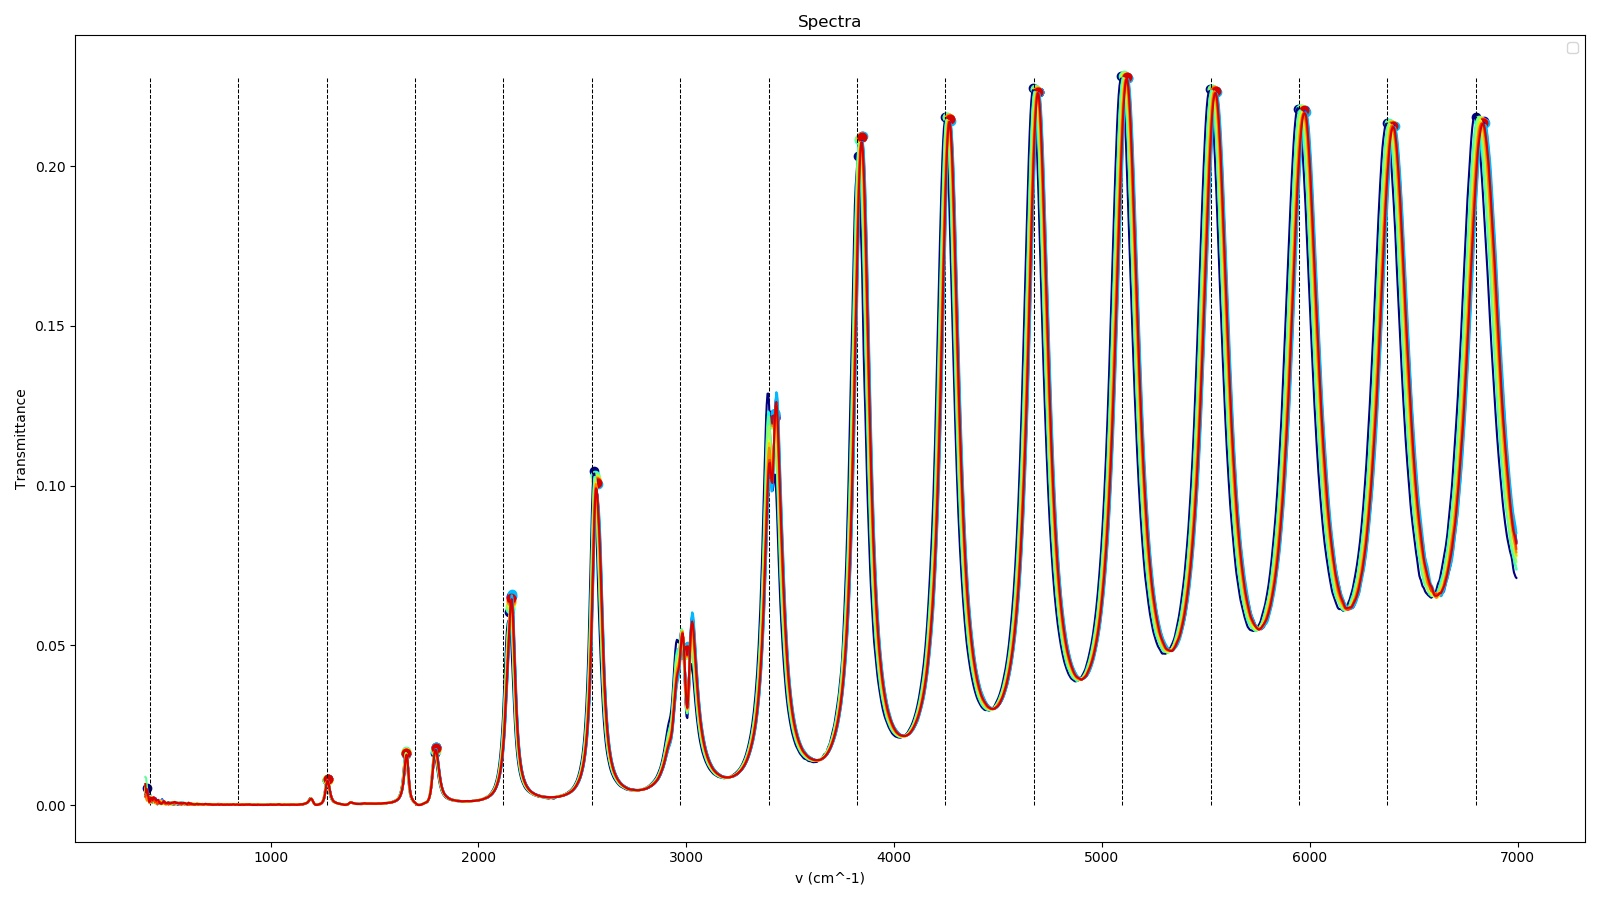
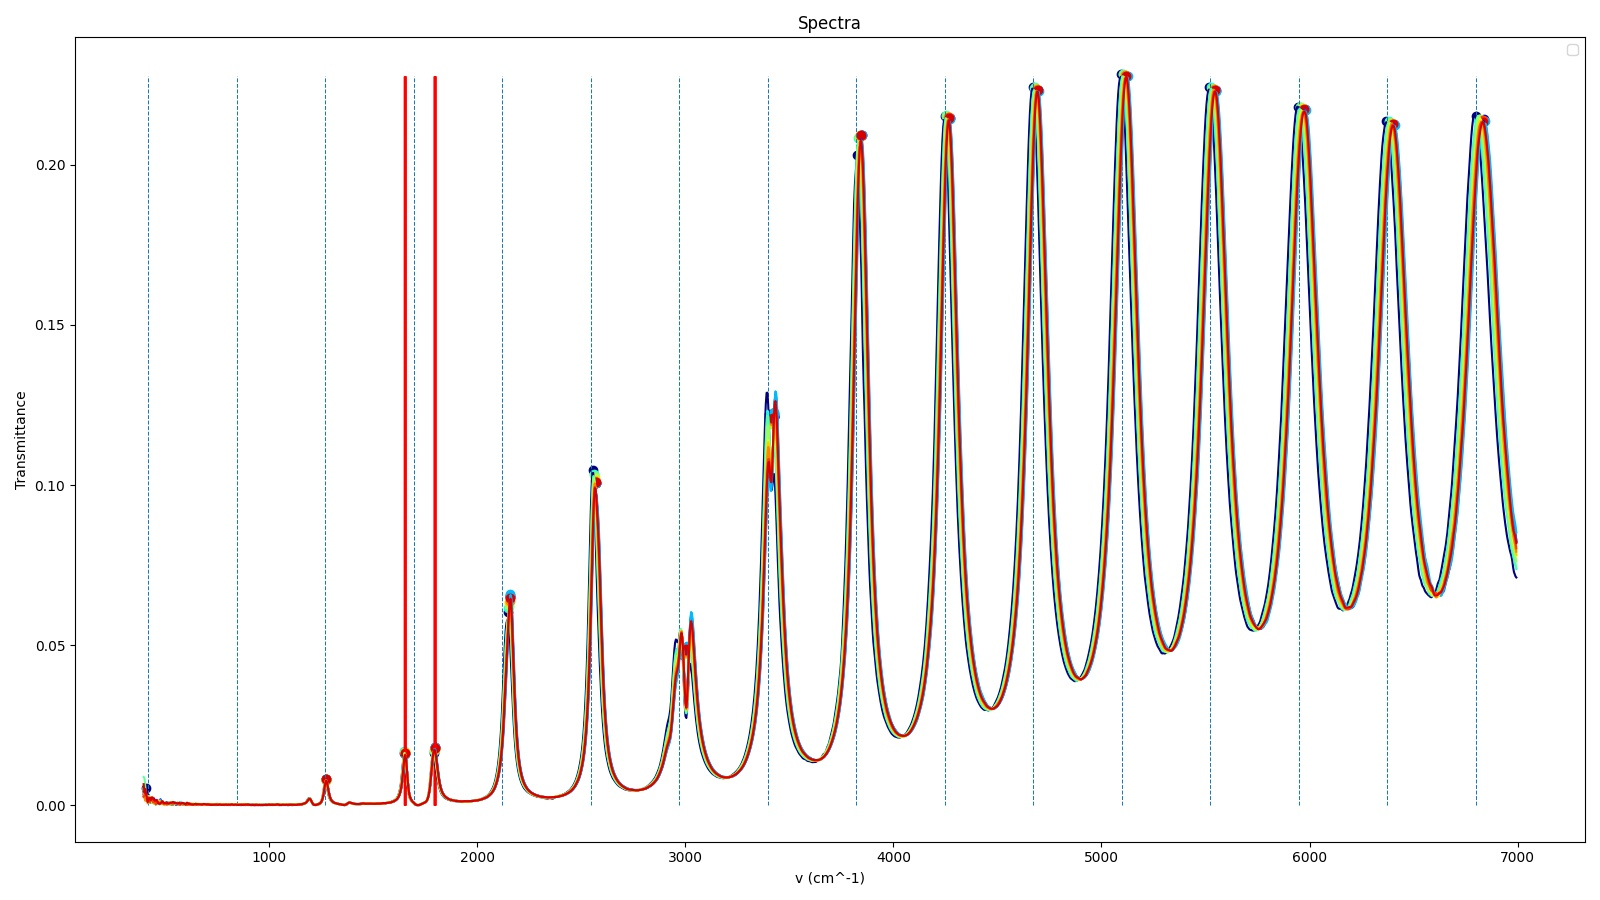
added back support for polariton calculations

diff --git a/analysis_kinetics.py b/analysis_kinetics.py
@@ -1,77 +1,13 @@
 import numpy as np
 import matplotlib.pyplot as plt
 import scipy.signal
+from pkg.exp_decay_fitter import fit_exp_decay
+
+
 
 def read_UV(file):
 	data = np.genfromtxt(file, skip_header=1, delimiter=',')[:,:-1]
 	return data
-
-
-def fit_exp_decay(x, y, maxiter=10_000, eps=1e-6, plot_errors=True, show_fit=True, title='Predicted and reference rate'):
-	#fitting to [A]_0 exp(-kt) + B
-	#initial values
-	k = 2/x.max()			#height of 0.1 + B at time x.max()/2
-	A0 = (y.max()-y.min()) 	
-	B = y.min() 			
-
-	f = lambda x, A0, k, B: A0 * np.exp(-k*x) + B
-	error = lambda x, A0, k, B: np.sum((y-f(x, A0, k, B))**2)
-
-	# plt.plot(x, y)
-	# cmap = plt.get_cmap('hot')
-	errors = []
-	for i in range(maxiter):
-		errors.append(error(x, A0, k, B))
-		# if errors[-1] < eps: break #check for completion of minimization
-		if i > 10 and all([(e - errors[-1]) < eps for e in errors[-8:]]): break
-
-		#calculate derivatives
-		expdec = np.exp(-k*x)
-		base = A0*expdec + B - y
-		dA0 = np.sum(2*expdec			* base)
-		dk  = np.sum(2*x*A0*expdec*-1	* base)
-		dB  = np.sum(2			 		* base)
-
-		#change parameters
-		A0 = A0 - dA0 * 0.00001
-		k = k - dk * 0.00001
-		B = B - dB * 0.00001
-
-	if i < maxiter:
-		print(f'Exponential decay fit converged in {len(errors)}/{maxiter} iterations.')
-	else:
-		print(f'Exponential decay fit not converged. Will take more than {maxiter} iterations, or is not possible. ')
-
-	if plot_errors: 
-		plt.figure()
-		plt.plot(range(len(errors)), errors)
-		plt.title('Error during fitting')
-		plt.xlabel('Iteration')
-		plt.ylabel('Error (a.u.)')
-
-	if show_fit: 
-		plt.figure()
-		plt.plot(x, f(x, A0, k, B), label='Predicted decay')
-		plt.plot(x, y, label='Reference data')
-		plt.title(f'{title}\nA0={A0:.3f}, k={k:.3f}, B={B:.3f}')
-		plt.xlabel('Time (s)')
-		plt.ylabel('Absorbance (a.u.)')
-		plt.hlines(B + A0/2, x.min(), np.log(2)/k, colors=['black'], linewidths=[.75])
-		plt.vlines(np.log(2)/k, y.min(), B + A0/2, colors=['black'], linewidths=[.75])
-		plt.scatter(np.log(2)/k, B + A0/2, c='black')
-		plt.text(np.log(2.2)/k, B + A0/1.85, r'$t_{1/2} = $' + f'{np.log(2)/k:.2f} s')
-		plt.legend()
-
-	print('Parameters:')
-	print(f'\tA0 = {A0} (a.u.)')
-	print(f'\tk  = {k} (1/s)')
-	print(f'\tB  = {B} (a.u.)')
-
-	print(f'Mean Lifetime (1/k) \tτ    = {1/k:.2f} s')
-	print(f'Half-life (τln(2))  \tt₁/₂ = {np.log(2)/k:.2f} s')
-
-	return A0, k, B
-
 
 
 

diff --git a/analysis_IR_2.py b/analysis_IR_2.py
@@ -229,14 +229,19 @@ def main(**settings):
 
 		#calculate Rabi splitting
 		for j, polariton_wn in enumerate(polariton_wns):
+			
+			adjpeak = get_adjacent_peaks(polariton_wn, peak_res['peakx'])
+			if adjpeak is None:
+				continue
+			l, h = adjpeak
+
 			print(f'\tPolariton {j} @ {polariton_wn} cm^-1', file=logfile)
-			l, h = get_adjacent_peaks(polariton_wn, spectrax[p])
 			if plot_polaritons:
 				plt.vlines((l,h), min_abs, max_abs, colors='red', linewidths=1)
 			splitting = (h-l)*planck*lightspeed
-			idx = np.where(np.logical_or(spectrax == l, spectrax == h))[0]
-			peak_props = scipy.signal.peak_widths(a, idx)
-			peak_widths = [pw*wavelenght_stepsize for pw in peak_props][0]
+			# idx = np.where(np.logical_or(spectrax == l, spectrax == h))[0]
+			# peak_props = scipy.signal.peak_widths(a, idx)
+			# peak_widths = [pw*wavelenght_stepsize for pw in peak_props][0]
 
 			print(f'\t\tP+ @ {int(h)} cm^-1, dv = {h-polariton_wn:.1f} cm^-1', file=logfile)
 			print(f'\t\tP- @ {int(l)} cm^-1, dv = {polariton_wn-l:.1f} cm^-1', file=logfile)
@@ -374,13 +379,13 @@ if __name__ == '__main__':
 		'cavity_tuning': {
 			'file': 'data/20211112_cavity_tuning_for_acetone/data.csv',
 			'name': 'cavity_tuning',
-			# 'polariton_wns': [1716], #wavenumbers where you expect polaritons cm^-1
-			'polariton_wns': [],
+			'polariton_wns': [1716], #wavenumbers where you expect polaritons cm^-1
+			# 'polariton_wns': [],
 			'refractive_index': 1.3592, #aceton,
 
 			## less important settings
 			'plot_fringes_for_one': True,
-			'plot_polaritons': False,
+			'plot_polaritons': True,
 			'plot_peaks': True,
 			},
 	}

diff --git a/pkg/peak_finding.py b/pkg/peak_finding.py
@@ -53,14 +53,17 @@ def get_peaks(spectrax, spectray, prominence=0, debug=False):
 	return results
 
 
-def get_adjacent_peaks(y, xs):
-	#gets values in xs that are left and right of value y
-	xs = np.sort(xs)
+def get_adjacent_peaks(target, ys):
+	#gets values in ys that are left and right of value target
+	ys = np.sort(ys)
 	
-	for i, x in enumerate(xs):
-		next_x = xs[i+1]
-		if x <= y <= next_x:
-			return x, next_x
+	for i, y in enumerate(ys):
+		try:
+			next_y = ys[i+1]
+		except IndexError:
+			return
+		if y <= target <= next_y:
+			return y, next_y
 
 
 def get_closest_index(data, target):
